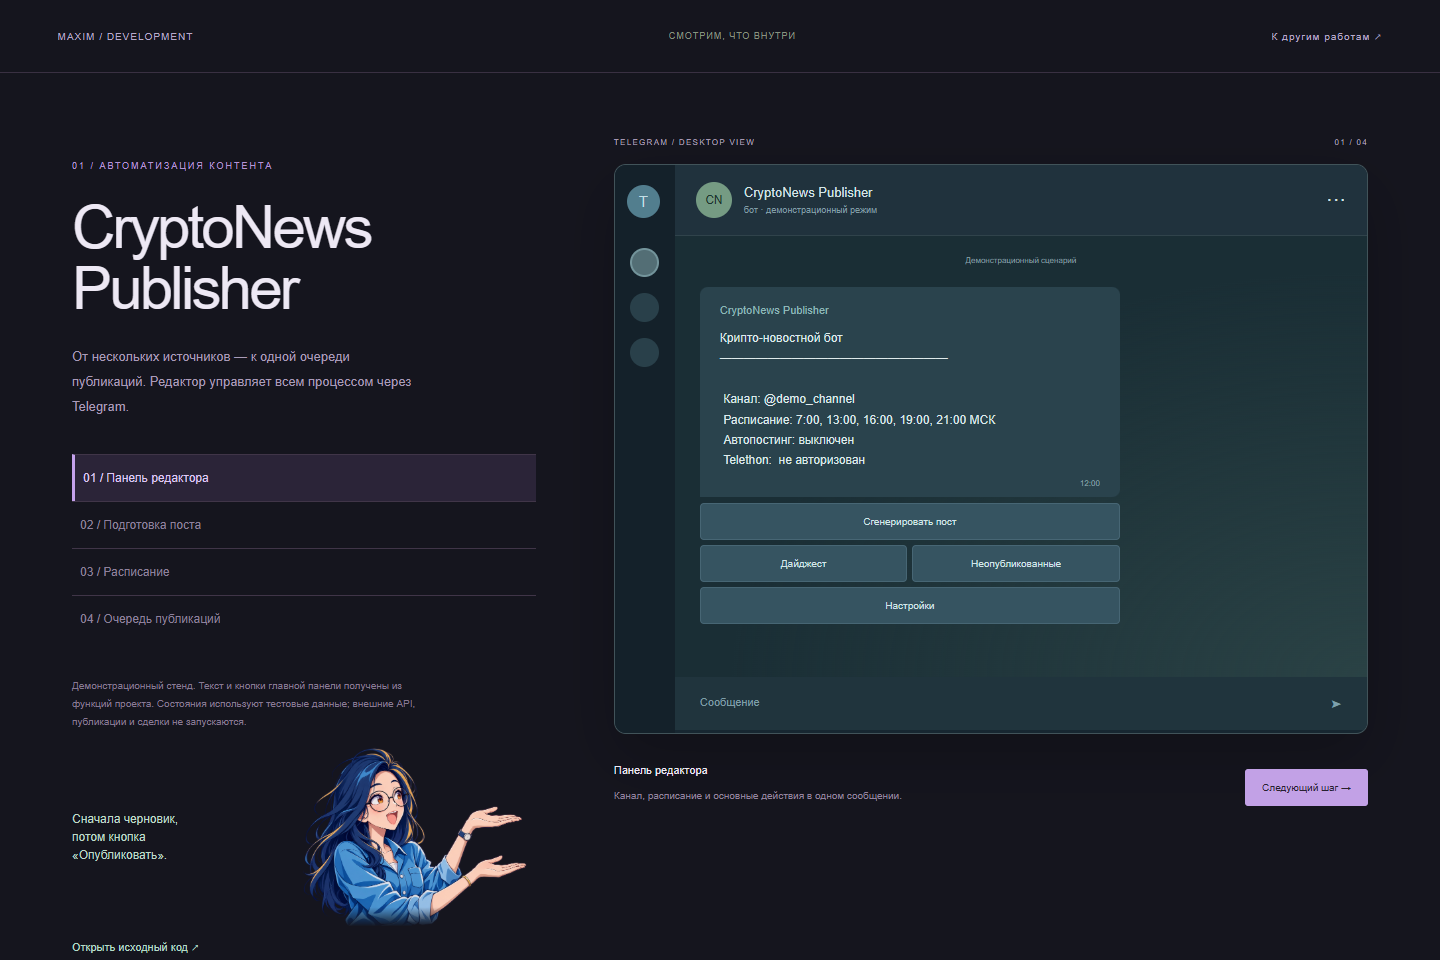
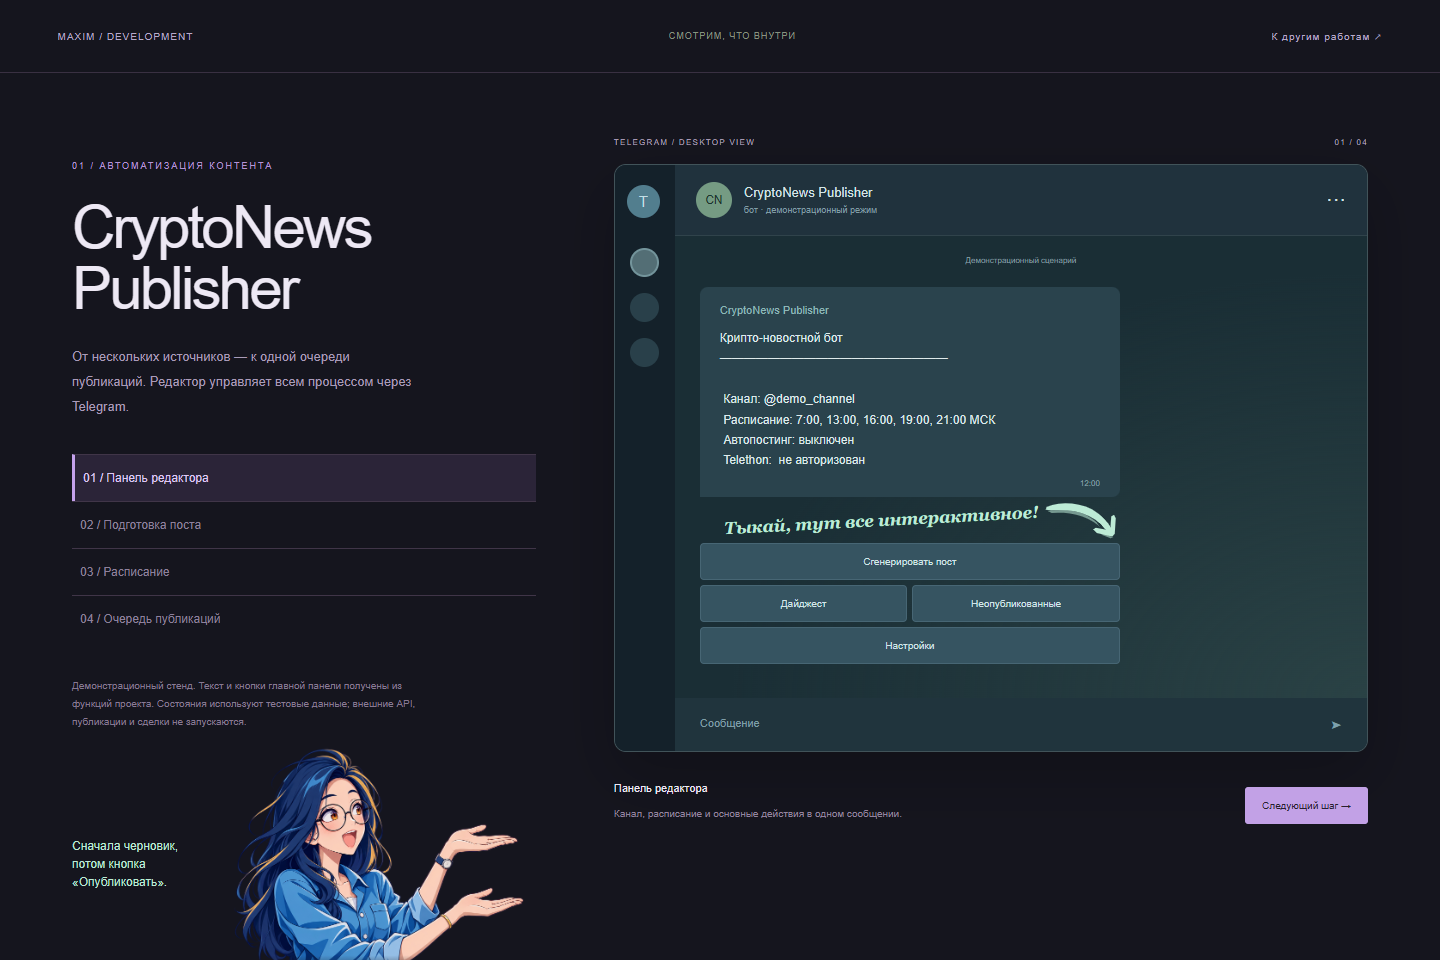
Draw attention to the interactive bot controls

diff --git a/demo.js b/demo.js
@@ -1,4 +1,5 @@
 const kind=new URLSearchParams(location.search).get('project')==='arbitrage'?'arbitrage':'crypto';
+document.body.dataset.demo = kind;
 const projects={crypto:{number:'01 / АВТОМАТИЗАЦИЯ КОНТЕНТА',title:'CryptoNews\nPublisher',description:'От нескольких источников — к одной очереди публикаций. Редактор управляет всем процессом через Telegram.',avatar:'CN',chat:'CryptoNews Publisher',repo:'cryptonews-publisher',steps:[{name:'Панель редактора',description:'Канал, расписание и основные действия в одном сообщении.',snapshot:true},{name:'Подготовка поста',description:'Черновик из учебной ленты релизов. Можно запросить вторую редакцию, отклонить или подтвердить публикацию в демо.',text:'Предпросмотр публикации\n\nКак устроен путь новости до канала\n\nСистема собирает материалы из RSS и Telegram, подготавливает текст и передаёт его редактору. Перед публикацией можно проверить содержание, отклонить материал или запросить новую версию.\n\nЭто пример для демонстрации интерфейса, а не реальная новость.\n\n#Telegram #Автоматизация',buttons:[['Опубликовать','Отклонить'],['Перегенерировать','Без фото'],['Главная']]},{name:'Расписание',description:'Выбор часов публикации по московскому времени.',text:'Расписание\n\nВыберите часы публикации.\nЧасовой пояс: Москва (UTC+3).\n\nВ этом стенде настройки не сохраняются на сервере.',buttons:[['06:00','07:00','08:00','09:00'],['12:00','13:00','16:00','19:00'],['21:00','22:00','23:00'],['Назад']]},{name:'Очередь публикаций',description:'Редактор возвращается к неопубликованным материалам.',text:'Неопубликованные\n\nДемонстрационный материал ожидает проверки.\n\nРедактор может открыть предпросмотр, обновить текст или отклонить публикацию.',buttons:[['Открыть предпросмотр'],['Главная']]}]},arbitrage:{number:'02 / МОНИТОРИНГ И ИНТЕГРАЦИИ',title:'CEX/DEX\nMonitor',description:'Рыночные данные, ограничения и управление в Telegram. Демонстрация панели на тестовом состоянии без подключения торговых аккаунтов.',avatar:'AM',chat:'Arbitrage Monitor',repo:'cex-dex-arbitrage-monitor',steps:[{name:'Панель мониторинга',description:'Панель сформирована реальной функцией проекта на нулевом тестовом состоянии.',snapshot:true},{name:'Открытые позиции',description:'Пустое состояние: показываем отсутствие данных без выдуманной прибыли.',text:'Открытые DEX позиции\n\nОткрытых позиций нет.\n\nРежим демонстрации: торговые аккаунты и кошельки не подключены.',buttons:[['Обновить'],['Назад']]},{name:'Контроль исполнения',description:'Пример параметров из конфигурации проекта.',text:'Настройки стратегии\n\nРеальная торговля: выключена\nРазмер сделки: 30 USDT\nTake profit: 1.2%\nStop loss: 0.7%\nДопуск проскальзывания: 0.5%\nДневной лимит убытка: 10 USDT\nЛимит сделок: 50\n\nТестовые значения из конфигурации. Изменения на этом стенде не применяются.',buttons:[['Назад']]},{name:'P2P-сценарий',description:'Пояснение потока данных из сервисов проекта.',text:'P2P Triangle\n\nПроверка направлений между площадками с учётом:\n\nПлатёжного метода\nЛимитов объявления\nДоступной ликвидности\nКомиссий и запаса по издержкам\n\nДемонстрационный сценарий. Рыночные котировки не загружаются.',buttons:[['Главная']]}]}};
 const p=projects[kind];document.title=p.chat+' — демонстрация';for(const [id,value] of Object.entries({number:p.number,title:p.title,description:p.description,avatar:p.avatar,'chat-title':p.chat,sender:p.chat})){document.getElementById(id).textContent=value}document.getElementById('title').style.whiteSpace='pre-line';document.getElementById('source').href='https://github.com/Max0209-web/'+p.repo;let step=0;let snapshot=null;
 function render(){syncCryptoSteps();document.getElementById('chapters').replaceChildren(...p.steps.map((s,i)=>{const b=document.createElement('button');b.className='chapter'+(i===step?' active':'');b.textContent=String(i+1).padStart(2,'0')+' / '+s.name;b.onclick=()=>{step=i;render()};return b}));const s=p.steps[step];document.getElementById('counter').textContent=String(step+1).padStart(2,'0')+' / 04';document.getElementById('step-label').textContent=s.name;document.getElementById('step-description').textContent=s.description;document.getElementById('feedback').textContent='';document.getElementById('message').textContent=s.snapshot?(snapshot?.text||'Загрузка демонстрационного состояния…'):s.text;const rows=s.snapshot?(snapshot?.buttons||[]):s.buttons;document.getElementById('keyboard').replaceChildren(...rows.map(row=>{const d=document.createElement('div');d.className='key-row';row.forEach(label=>{const b=document.createElement('button');b.textContent=label;b.onclick=()=>action(label,b);d.append(b)});return d}));document.getElementById('next').textContent=step===3?'К началу →':'Следующий шаг →'}

diff --git a/demo.html b/demo.html
@@ -1,1 +1,8 @@
-<!doctype html><html lang="ru"><head><meta charset="utf-8"><meta name="viewport" content="width=device-width,initial-scale=1"><title>Демонстрация Telegram-продукта</title><link rel="stylesheet" href="demo.css"><link rel="stylesheet" href="demo-personality.css"></head><body><header><a href="index.html">MAXIM / DEVELOPMENT</a><span>СМОТРИМ, ЧТО ВНУТРИ</span><a href="index.html#work">К другим работам ↗</a></header><main><section class="story"><div class="eyebrow" id="number"></div><h1 id="title"></h1><p id="description"></p><div class="chapters" id="chapters"></div><div class="note">Демонстрационный стенд. Текст и кнопки главной панели получены из функций проекта. Состояния используют тестовые данные; внешние API, публикации и сделки не запускаются.</div><div class="demo-guide"><span id="guide-copy">Попробуй меню справа.</span><img src="assets/demo-presenter.png" alt="" width="1448" height="1086"></div><a id="source" class="source">Открыть исходный код ↗</a></section><section class="stage"><div class="stage-caption"><span>TELEGRAM / DESKTOP VIEW</span><span id="counter"></span></div><div class="telegram"><div class="tg-sidebar"><div class="tg-logo">T</div><div class="side-dot selected"></div><div class="side-dot"></div><div class="side-dot"></div></div><div class="tg-chat"><div class="tg-header"><div id="avatar" class="avatar"></div><div><div id="chat-title"></div><small>бот · демонстрационный режим</small></div><span class="more">···</span></div><div class="chat-area"><span class="date">Демонстрационный сценарий</span><div class="bubble"><div class="sender" id="sender"></div><div id="message" class="message"></div><div class="time">12:00</div></div><div class="keyboard" id="keyboard"></div><div id="feedback" aria-live="polite"></div></div><div class="composer">Сообщение <span>➤</span></div></div></div><div class="stage-bottom"><div><span id="step-label"></span><p id="step-description"></p></div><button id="next">Следующий шаг →</button></div></section></main><script src="demo.js"></script></body></html>
+<!doctype html><html lang="ru"><head><meta charset="utf-8"><meta name="viewport" content="width=device-width,initial-scale=1"><title>Демонстрация Telegram-продукта</title><link rel="stylesheet" href="demo.css"><link rel="stylesheet" href="demo-personality.css"></head><body><header><a href="index.html">MAXIM / DEVELOPMENT</a><span>СМОТРИМ, ЧТО ВНУТРИ</span><a href="index.html#work">К другим работам ↗</a></header><main><section class="story"><div class="eyebrow" id="number"></div><h1 id="title"></h1><p id="description"></p><div class="chapters" id="chapters"></div><div class="note">Демонстрационный стенд. Текст и кнопки главной панели получены из функций проекта. Состояния используют тестовые данные; внешние API, публикации и сделки не запускаются.</div><div class="demo-guide"><span id="guide-copy">Попробуй меню справа.</span><img src="assets/demo-presenter.png" alt="" width="1448" height="1086"></div><a id="source" class="source">Открыть исходный код ↗</a></section><section class="stage"><div class="stage-caption"><span>TELEGRAM / DESKTOP VIEW</span><span id="counter"></span></div><div class="telegram"><div class="tg-sidebar"><div class="tg-logo">T</div><div class="side-dot selected"></div><div class="side-dot"></div><div class="side-dot"></div></div><div class="tg-chat"><div class="tg-header"><div id="avatar" class="avatar"></div><div><div id="chat-title"></div><small>бот · демонстрационный режим</small></div><span class="more">···</span></div><div class="chat-area"><span class="date">Демонстрационный сценарий</span><div class="bubble"><div class="sender" id="sender"></div><div id="message" class="message"></div><div class="time">12:00</div></div><div class="interaction-hint">
+  <span>Тыкай, тут все интерактивное!</span>
+  <svg viewBox="0 0 88 44" aria-hidden="true" focusable="false">
+    <path fill="currentColor" d="M3 7C19 0 46 1 62 14c7 5 12 11 15 16l1-12 3-2 2 4-1 18-3 3-18-4-4-4 3-2 11 2C58 15 33 8 8 11L2 10z"/>
+    <path fill="currentColor" opacity=".55" d="M5 12c23-5 44 1 56 13l3 4C48 16 27 12 9 14zm65 26 10 4-3 1-10-4z"/>
+  </svg>
+</div>
+<div class="keyboard" id="keyboard"></div><div id="feedback" aria-live="polite"></div></div><div class="composer">Сообщение <span>➤</span></div></div></div><div class="stage-bottom"><div><span id="step-label"></span><p id="step-description"></p></div><button id="next">Следующий шаг →</button></div></section></main><script src="demo.js"></script></body></html>

diff --git a/demo-personality.css b/demo-personality.css
@@ -8,7 +8,7 @@
 }
 .demo-guide img {
   display: block;
-  width: min(55%, 240px);
+  width: min(67%, 330px);
   height: auto;
   flex: none;
   mask-image: linear-gradient(#000 89%, transparent);
@@ -22,6 +22,29 @@
 .story > .source { margin-top: 12px; }
 @media (max-width: 850px) {
   .demo-guide { justify-content: flex-start; gap: 16px; }
-  .demo-guide img { width: min(42%, 160px); }
+  .demo-guide img { width: min(58%, 235px); }
   .story > .source { margin-bottom: 20px; }
+}
+
+body[data-demo="crypto"] { --hint-color: #bdebd6; }
+body[data-demo="arbitrage"] { --hint-color: #d6b7fb; }
+.demo-guide span { color: var(--hint-color, #bfdbc9); }
+.interaction-hint {
+  display: flex;
+  align-items: center;
+  justify-content: flex-end;
+  gap: 5px;
+  max-width: 420px;
+  margin: 4px 0 -2px;
+  color: var(--hint-color, #bdebd6);
+  pointer-events: none;
+}
+.interaction-hint span {
+  font: italic 700 clamp(13px, 1.4vw, 17px)/1.2 Georgia, serif;
+  transform: rotate(-3deg);
+}
+.interaction-hint svg {
+  width: clamp(49px, 6vw, 76px);
+  height: auto;
+  flex: none;
 }
